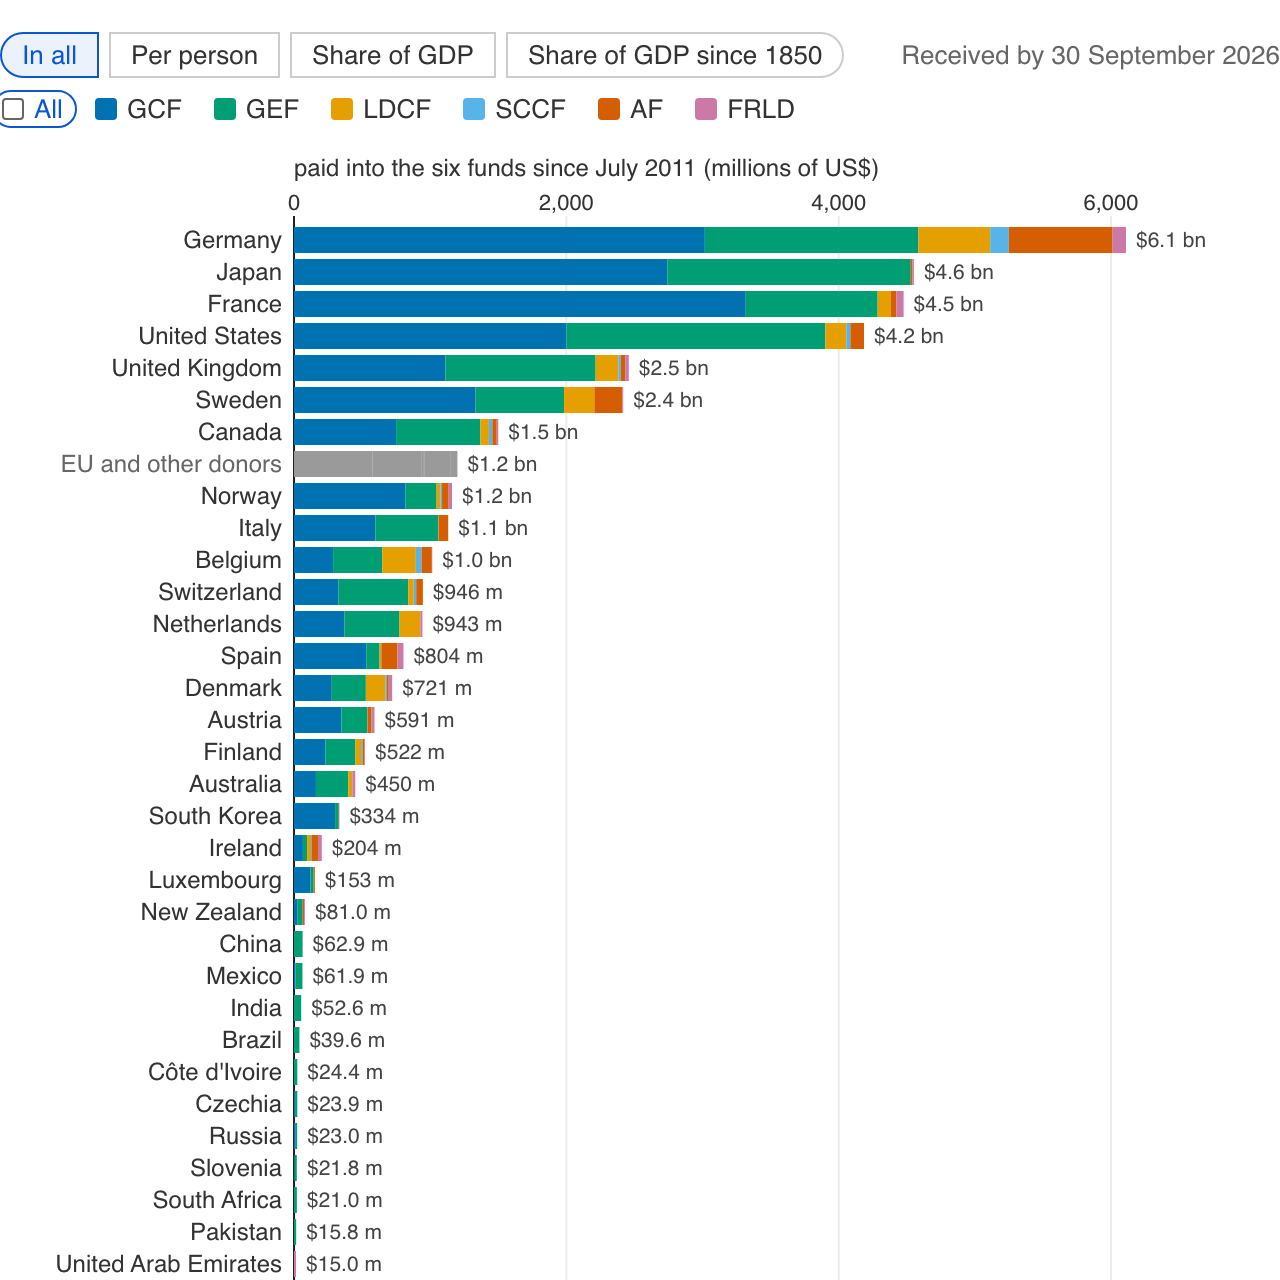
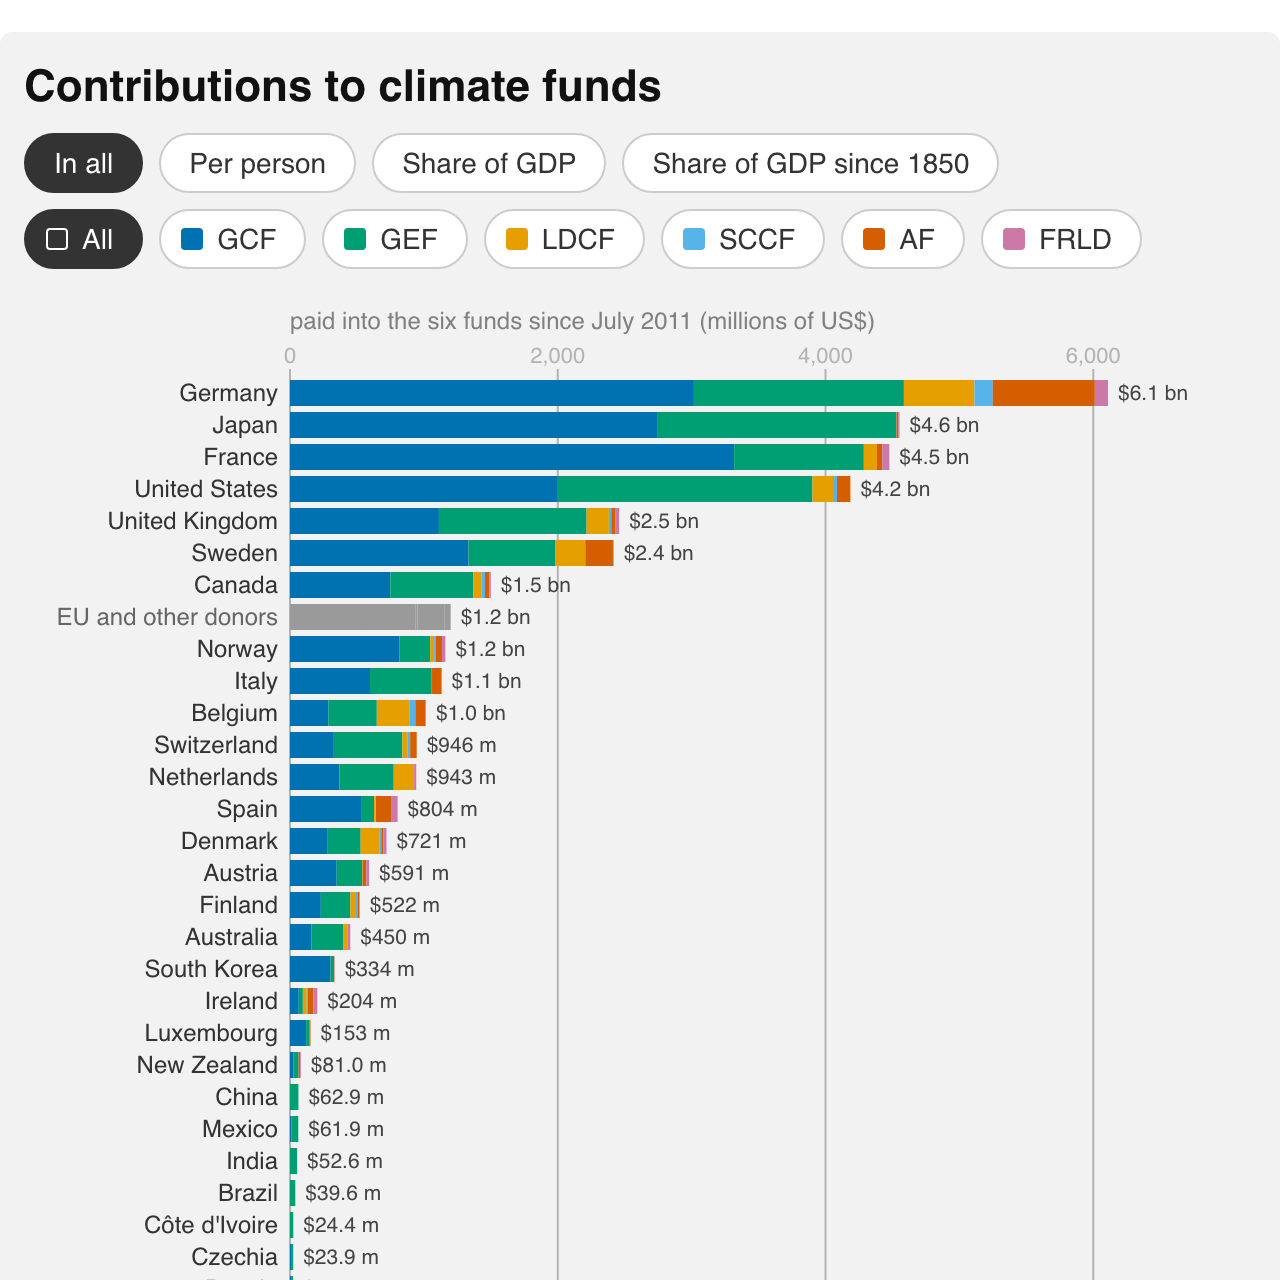
Climate funds: the Hickman widget's look, the page's width, and the source as a link
A grey plate under the whole card, the title "Contributions to climate funds" big and
bold at its top, dark pill buttons, quiet grey gridlines with their labels on them, and
the data source in small type at the bottom right, now a blue link to the World Bank
dataset. The card is capped at the page column's 640 px; the names take exactly the room
the longest needs, measured rather than estimated; the axis description and the source
line never run past the axis's end.

Changed region(s): [[0.0, 0.0312, 0.9062, 1.0], [0.7188, 0.0312, 1.0, 0.0625]]

diff --git a/src/climate-funds/widget.js b/src/climate-funds/widget.js
@@ -12,16 +12,24 @@
 // wide enough to hold it; the arrow keys then walk the ranking. Donors that are not countries
 // (the European Union, development banks, the Adaptation Fund's sale of carbon credits, and the
 // receipts the record does not attribute to anyone) are one grey bar in the dollar view and
-// absent from the others, having no people or GDP of their own. Self-contained: no d3, no
-// imports.
+// absent from the others, having no people or GDP of their own. Drawn in the style of the
+// Hickman et al. widget, after Makie: a grey plate under the whole thing, a big bold title in
+// the corner, quiet grey gridlines with their labels on them, dark pill buttons, and the data
+// source in small grey type at the bottom right. Self-contained: no d3, no imports.
 //
 // Options: {measure: "total" | "perCapita" | "gdp" | "gdp1850"} opens on that measure; {fund:
 // "gcf"} on that fund alone; {width} caps the figure's width (it shrinks with its container
 // below that).
 
-const FIGURE_WIDTH = 720;
+const CARD_WIDTH = 640;         // the page column, as the other widgets fill it
+const CARD_PAD = 12;            // the plate's padding either side of the figure
+const FIGURE_WIDTH = CARD_WIDTH - 2 * CARD_PAD;
 const MIN_WIDTH = 320;
-const ACCENT = "#0b57d0";
+const BACKGROUND = "#f2f2f2";   // Makie's :gray95, as in the Hickman widget
+const GRID = "#b3b3b3";
+const LINK = "#0b57d0";
+const TITLE = "Contributions to climate funds";
+const SOURCE_URL = "https://financesone.worldbank.org/api-explorer?id=DS00073";
 const EPS = 1e-9;
 const ROW_H = 16;            // one country
 const OTHER_CODE = "__other";
@@ -105,66 +113,78 @@ export function createClimateFundsWidget({data, width = FIGURE_WIDTH, measure: i
   }
 
   // ---- layout ---------------------------------------------------------------------------------
+  // Text is measured, not estimated, so the names take exactly the room the longest needs
+  // and nothing written along the axis runs past its end.
+  const ctx = document.createElement("canvas").getContext("2d");
+  function textWidth(text, px, weight = "normal") {
+    ctx.font = `${weight} ${px}px sans-serif`;
+    return ctx.measureText(text).width;
+  }
+  const NAME_FONT = 12;
+  const longestName = Math.max(...rows.map(r => textWidth(r.name, NAME_FONT, "bold")));
+
   const maxW = Math.max(MIN_WIDTH, Math.round(width));
-  let w, nameRoom, plotL, plotR, plotT, plotB, svgH;
+  let w, nameRoom, plotL, plotR, plotT, plotB, svgH, titleFont, sourceFont;
   function applyLayout(newW, n) {
     w = newW;
-    nameRoom = clamp(Math.round(w * 0.22), 92, 150);   // the country names, right-aligned against the bars
+    const t = clamp((w - MIN_WIDTH) / (FIGURE_WIDTH - MIN_WIDTH), 0, 1);
+    const lerp = (a, b) => a + (b - a) * t;
+    titleFont = lerp(16, 22);
+    sourceFont = lerp(7, 8);
+    nameRoom = Math.min(Math.ceil(longestName) + 4, Math.round(w * 0.3));   // the country names, right-aligned against the bars
     plotL = nameRoom + 6;
     plotR = w - clamp(Math.round(w * 0.12), 56, 84);   // room for the value at the end of the longest bar
     plotT = 44;                                          // the axis title and ticks, above the bars
     plotB = plotT + n * ROW_H;
-    svgH = plotB + 8;
+    svgH = plotB + 26;                                   // the source line under the bars
   }
   applyLayout(maxW, ranking().length);
 
   // ---- DOM ------------------------------------------------------------------------------------
+  // The plate runs under the whole widget, title and buttons included, so it reads as one card;
+  // the SVG paints its own background in the same colour, so it stands on its own if pulled out.
   const container = document.createElement("div");
-  container.style.cssText = "font:16px sans-serif;color:#333;";
+  container.style.cssText = `font:16px sans-serif;color:#333;background:${BACKGROUND};padding:10px ${CARD_PAD}px ${CARD_PAD}px;` +
+    `border-radius:6px;box-sizing:border-box;max-width:${maxW + 2 * CARD_PAD}px;`;
+
+  const heading = document.createElement("div");
+  heading.style.cssText = "font-weight:bold;color:#111;line-height:1.2;padding:4px 0 10px;";
+  heading.textContent = TITLE;
+  container.appendChild(heading);
 
   const controls = document.createElement("div");
-  controls.style.cssText = "display:flex;flex-wrap:wrap;justify-content:space-between;align-items:center;gap:6px 16px;padding:0 0 8px;font-size:13px;";
+  controls.style.cssText = "display:flex;flex-wrap:wrap;align-items:center;gap:8px;padding:0 0 8px;";
   container.appendChild(controls);
 
+  // Pill buttons as in the Hickman widget: the one pressed is dark with white type.
+  const PILL = "font:14px sans-serif;padding:6px 14px;border-radius:999px;cursor:pointer;white-space:nowrap;" +
+    "display:inline-flex;align-items:center;gap:7px;transition:background-color .15s,color .15s,border-color .15s;";
+  function stylePill(b, active) {
+    b.style.border = active ? "1px solid #333" : "1px solid #ccc";
+    b.style.background = active ? "#333" : "#fff";
+    b.style.color = active ? "#fff" : "#333";
+    b.setAttribute("aria-pressed", String(active));
+  }
   function buttonRow(choices, onPick) {
-    const bar = document.createElement("div");
-    bar.style.cssText = "display:flex;align-items:center;gap:6px;color:#666;";
-    const buttons = choices.map((choice, i) => {
+    const buttons = choices.map(choice => {
       const b = document.createElement("button");
       b.type = "button";
       b.textContent = choice.label;
       if (choice.title) b.title = choice.title;
-      const first = i === 0, last = i === choices.length - 1;
-      b.style.cssText =
-        "font:13px sans-serif;padding:3px 10px;cursor:pointer;border:1px solid #ccc;position:relative;white-space:nowrap;" +
-        `border-radius:${first ? "999px 0 0 999px" : last ? "0 999px 999px 0" : "0"};${first ? "" : "margin-left:-1px;"}`;
+      b.style.cssText = PILL;
       b.addEventListener("click", () => onPick(choice.id));
-      bar.appendChild(b);
+      controls.appendChild(b);
       return b;
     });
-    const update = current => buttons.forEach((b, i) => {
-      const on = choices[i].id === current;
-      b.style.background = on ? hexToRgba(ACCENT, 0.08) : "#fff";
-      b.style.borderColor = on ? ACCENT : "#ccc";
-      b.style.color = on ? ACCENT : "#333";
-      b.style.zIndex = on ? 1 : 0;
-      b.setAttribute("aria-pressed", on);
-    });
-    controls.appendChild(bar);
-    return update;
+    return current => buttons.forEach((b, i) => stylePill(b, choices[i].id === current));
   }
   const updateMeasureButtons = buttonRow(MEASURES, setMeasure);
-
-  const asOf = document.createElement("span");
-  asOf.style.cssText = "color:#666;margin-left:auto;";
-  asOf.textContent = `Received by ${formatDate(data.meta?.dataAsOf)}`;
-  controls.appendChild(asOf);
 
   // The key: "All", with an empty swatch, then one swatch per fund by its acronym; click a fund
   // to see it alone, "All" for the six together. Hovering (or focusing) an entry names the fund
   // in full, in a tip just under it.
   const key = document.createElement("div");
-  key.style.cssText = "position:relative;display:flex;flex-wrap:wrap;align-items:center;gap:4px 14px;padding:0 0 6px;font-size:13px;color:#333;";
+  key.style.cssText = "position:relative;display:flex;flex-wrap:wrap;align-items:center;gap:8px;padding:0 0 10px;";
   const tip = document.createElement("div");
   tip.style.cssText = "position:absolute;display:none;z-index:2;pointer-events:none;background:#222;color:#fff;font:12px sans-serif;" +
     "padding:3px 8px;border-radius:4px;white-space:nowrap;";
@@ -172,11 +192,10 @@ export function createClimateFundsWidget({data, width = FIGURE_WIDTH, measure: i
     const item = document.createElement("button");
     item.type = "button";
     item.setAttribute("aria-label", f.name);
-    item.style.cssText = "display:inline-flex;align-items:center;gap:5px;white-space:nowrap;font:inherit;color:inherit;" +
-      "background:none;border:1px solid transparent;border-radius:999px;padding:1px 6px 1px 4px;margin:-2px -6px -2px -4px;cursor:pointer;";
+    item.style.cssText = PILL + "padding-left:10px;";
     const swatch = document.createElement("span");
     swatch.style.cssText = f.id === null
-      ? "width:9px;height:9px;border-radius:2px;border:1px solid #666;background:none;flex:none;"
+      ? "width:9px;height:9px;border-radius:2px;border:1px solid currentColor;background:none;flex:none;"
       : `width:11px;height:11px;border-radius:2px;background:${FUND_COLOURS[f.id] ?? "#888"};flex:none;`;
     item.append(swatch, f.short);
     item.addEventListener("click", () => setFund(f.id));
@@ -196,12 +215,7 @@ export function createClimateFundsWidget({data, width = FIGURE_WIDTH, measure: i
   });
   key.appendChild(tip);
   function updateKey() {
-    for (const {item, id} of keyItems) {
-      const on = keyFund === id;
-      item.style.borderColor = on ? ACCENT : "transparent";
-      item.style.color = on ? ACCENT : "inherit";
-      item.setAttribute("aria-pressed", on);
-    }
+    for (const {item, id} of keyItems) stylePill(item, keyFund === id);
   }
   container.appendChild(key);
 
@@ -230,13 +244,15 @@ export function createClimateFundsWidget({data, width = FIGURE_WIDTH, measure: i
   const pxOf = v => (plotR - plotL) * clamp(v / vMax, 0, 1);
 
   // ---- drawing --------------------------------------------------------------------------------
-  let axisGroup, barGroup, labelGroup, pickPath;
+  let axisGroup, barGroup, labelGroup, pickPath, plate, sourceLink = null;
   const barEls = new Map();   // code → {g, segs: {fundId: rect}, name}
 
   function build() {
+    heading.style.fontSize = `${titleFont.toFixed(1)}px`;
     svg.setAttribute("width", w.toFixed(0));
     svg.setAttribute("height", svgH.toFixed(0));
     svg.replaceChildren();
+    plate = svgEl("rect", {x: 0, y: 0, width: F(w), height: F(svgH), fill: BACKGROUND}, svg);
     axisGroup = svgEl("g", {"pointer-events": "none", "font-family": "sans-serif"}, svg);
     barGroup = svgEl("g", {}, svg);
     barEls.clear();
@@ -319,7 +335,7 @@ export function createClimateFundsWidget({data, width = FIGURE_WIDTH, measure: i
         x += sw;
       }
       const picked = code === pick;
-      const nameFont = Math.min(12, (nameRoom - 2) / (CHAR * r.name.length));
+      const nameFont = Math.min(NAME_FONT, NAME_FONT * (nameRoom - 2) / textWidth(r.name, NAME_FONT, "bold"));
       el.name.setAttribute("y", F(ROW_H / 2));
       el.name.setAttribute("font-size", nameFont.toFixed(1));
       el.name.setAttribute("font-weight", picked ? "bold" : "normal");
@@ -336,23 +352,40 @@ export function createClimateFundsWidget({data, width = FIGURE_WIDTH, measure: i
     describe(list);
   }
 
-  // The scale along the top: ticks, faint gridlines down through the rows, and a title that
-  // says what is measured.
+  // The scale along the top: quiet grey gridlines down through the rows with their labels on
+  // them, no spine, and above them a line in the same grey that says what is measured; the
+  // data source in small grey type under the bars, at the right.
   function drawAxis() {
     axisGroup.replaceChildren();
     const step = niceStep(vMax / 5);
     for (let v = 0; v <= vMax + EPS; v += step) {
       const x = plotL + pxOf(v);
-      svgEl("path", {d: `M${F(x)},${F(plotT - 4)}V${F(plotB)}`, stroke: v === 0 ? "#222" : "rgba(0,0,0,0.08)", "stroke-width": 1}, axisGroup);
-      const tl = svgEl("text", {x: F(x), y: F(plotT - 7), "text-anchor": "middle", "font-size": 11, fill: "#333"}, axisGroup);
+      svgEl("path", {d: `M${F(x)},${F(plotT - 4)}V${F(plotB)}`, stroke: GRID, "stroke-width": 1}, axisGroup);
+      const tl = svgEl("text", {x: F(x), y: F(plotT - 7), "text-anchor": "middle", "font-size": 11, fill: GRID}, axisGroup);
       tl.textContent = formatTick(v);
     }
-    // The title in full where it fits at 12 px, else the short form, shrunk if even that is too long.
-    const room = w - plotL - 4;
-    const [long, short] = axisTitle();
-    const text = CHAR * 12 * long.length <= room ? long : short;
-    const title = svgEl("text", {x: F(plotL), y: F(plotT - 24), "font-size": Math.min(12, room / (CHAR * text.length)).toFixed(1), fill: "#333"}, axisGroup);
-    title.textContent = text;
+    // The title and the source line each in full where it fits within the axis, else the short
+    // form, shrunk if even that is too long: neither runs past the axis's end.
+    const room = plotR - plotL;
+    const fit = (long, short, px) => {
+      const text = textWidth(long, px) <= room ? long : short;
+      return {text, font: Math.min(px, px * room / textWidth(text, px))};
+    };
+    const title = fit(...axisTitle(), 12);
+    const titleEl = svgEl("text", {x: F(plotL), y: F(plotT - 24), "font-size": title.font.toFixed(1), fill: "#808080"}, axisGroup);
+    titleEl.textContent = title.text;
+    const asOf = formatDate(data.meta?.dataAsOf);
+    const source = fit(`Data source: World Bank, Contributions (Receipts) to Trust Funds, Finances One DS00073, receipts to ${asOf}`,
+      `Data source: World Bank Finances One DS00073, to ${asOf}`, sourceFont);
+    // A link to the dataset, in link blue; its own group, since the axis group takes no pointer.
+    const link = svgEl("a", {href: SOURCE_URL, target: "_blank", rel: "noopener"}, svg);
+    link.style.cssText = "cursor:pointer;";
+    link.addEventListener("click", e => e.stopPropagation());
+    const sourceEl = svgEl("text", {x: F(plotR), y: F(svgH - 8), "text-anchor": "end", "font-size": source.font.toFixed(1), fill: LINK, "text-decoration": "underline", "font-family": "sans-serif"}, link);
+    sourceEl.textContent = source.text;
+    axisGroup.after(link);
+    sourceLink?.remove();
+    sourceLink = link;
   }
   function axisTitle() {
     const what = keyFund ? `paid into the ${fundById.get(keyFund).name}` : "paid into the six funds";
@@ -459,6 +492,7 @@ export function createClimateFundsWidget({data, width = FIGURE_WIDTH, measure: i
     const n = ranking().length;
     applyLayout(w, n);
     svg.setAttribute("height", svgH.toFixed(0));
+    plate.setAttribute("height", F(svgH));
     for (const el of barEls.values()) { el.hit.setAttribute("width", F(w)); el.name.setAttribute("x", F(plotL - 6)); }
   }
   function setMeasure(m) {
@@ -557,8 +591,4 @@ function niceStep(v) {
 }
 function clamp(v, lo, hi) {
   return Math.max(lo, Math.min(hi, v));
-}
-function hexToRgba(hex, alpha) {
-  const n = parseInt(hex.slice(1), 16);
-  return `rgba(${(n >> 16) & 255},${(n >> 8) & 255},${n & 255},${alpha})`;
 }

diff --git a/src/climate-funds/index.md b/src/climate-funds/index.md
@@ -35,10 +35,10 @@ import {embedSnippets, cdnUrl} from "../components/embed-snippet.js";
 ```js
 display(embedSnippets({
   embedPath: "climate-funds/embed",
-  height: 1060,
+  height: 1160,
   title: "Paying into the climate funds",
-  note: "The figure is about 1,000&nbsp;px tall whatever the width, one row per donor, and fills the frame up to 720&nbsp;px wide; " +
-    "allow about 1,100&nbsp;px of height at phone width, where the controls wrap. The embed page accepts <code>?measure=perCapita</code>, " +
+  note: "The figure is about 1,140&nbsp;px tall whatever the width, one row per donor, and fills the frame up to 640&nbsp;px wide; " +
+    "allow about 1,200&nbsp;px of height at phone width, where the buttons wrap. The embed page accepts <code>?measure=perCapita</code>, " +
     "<code>?measure=gdp</code> or <code>?measure=gdp1850</code> to open on that measure, and <code>?fund=gcf</code> (or gef, ldcf, sccf, af, frld) to open on one fund.",
   script: `<div id="climate-funds"></div>
 
